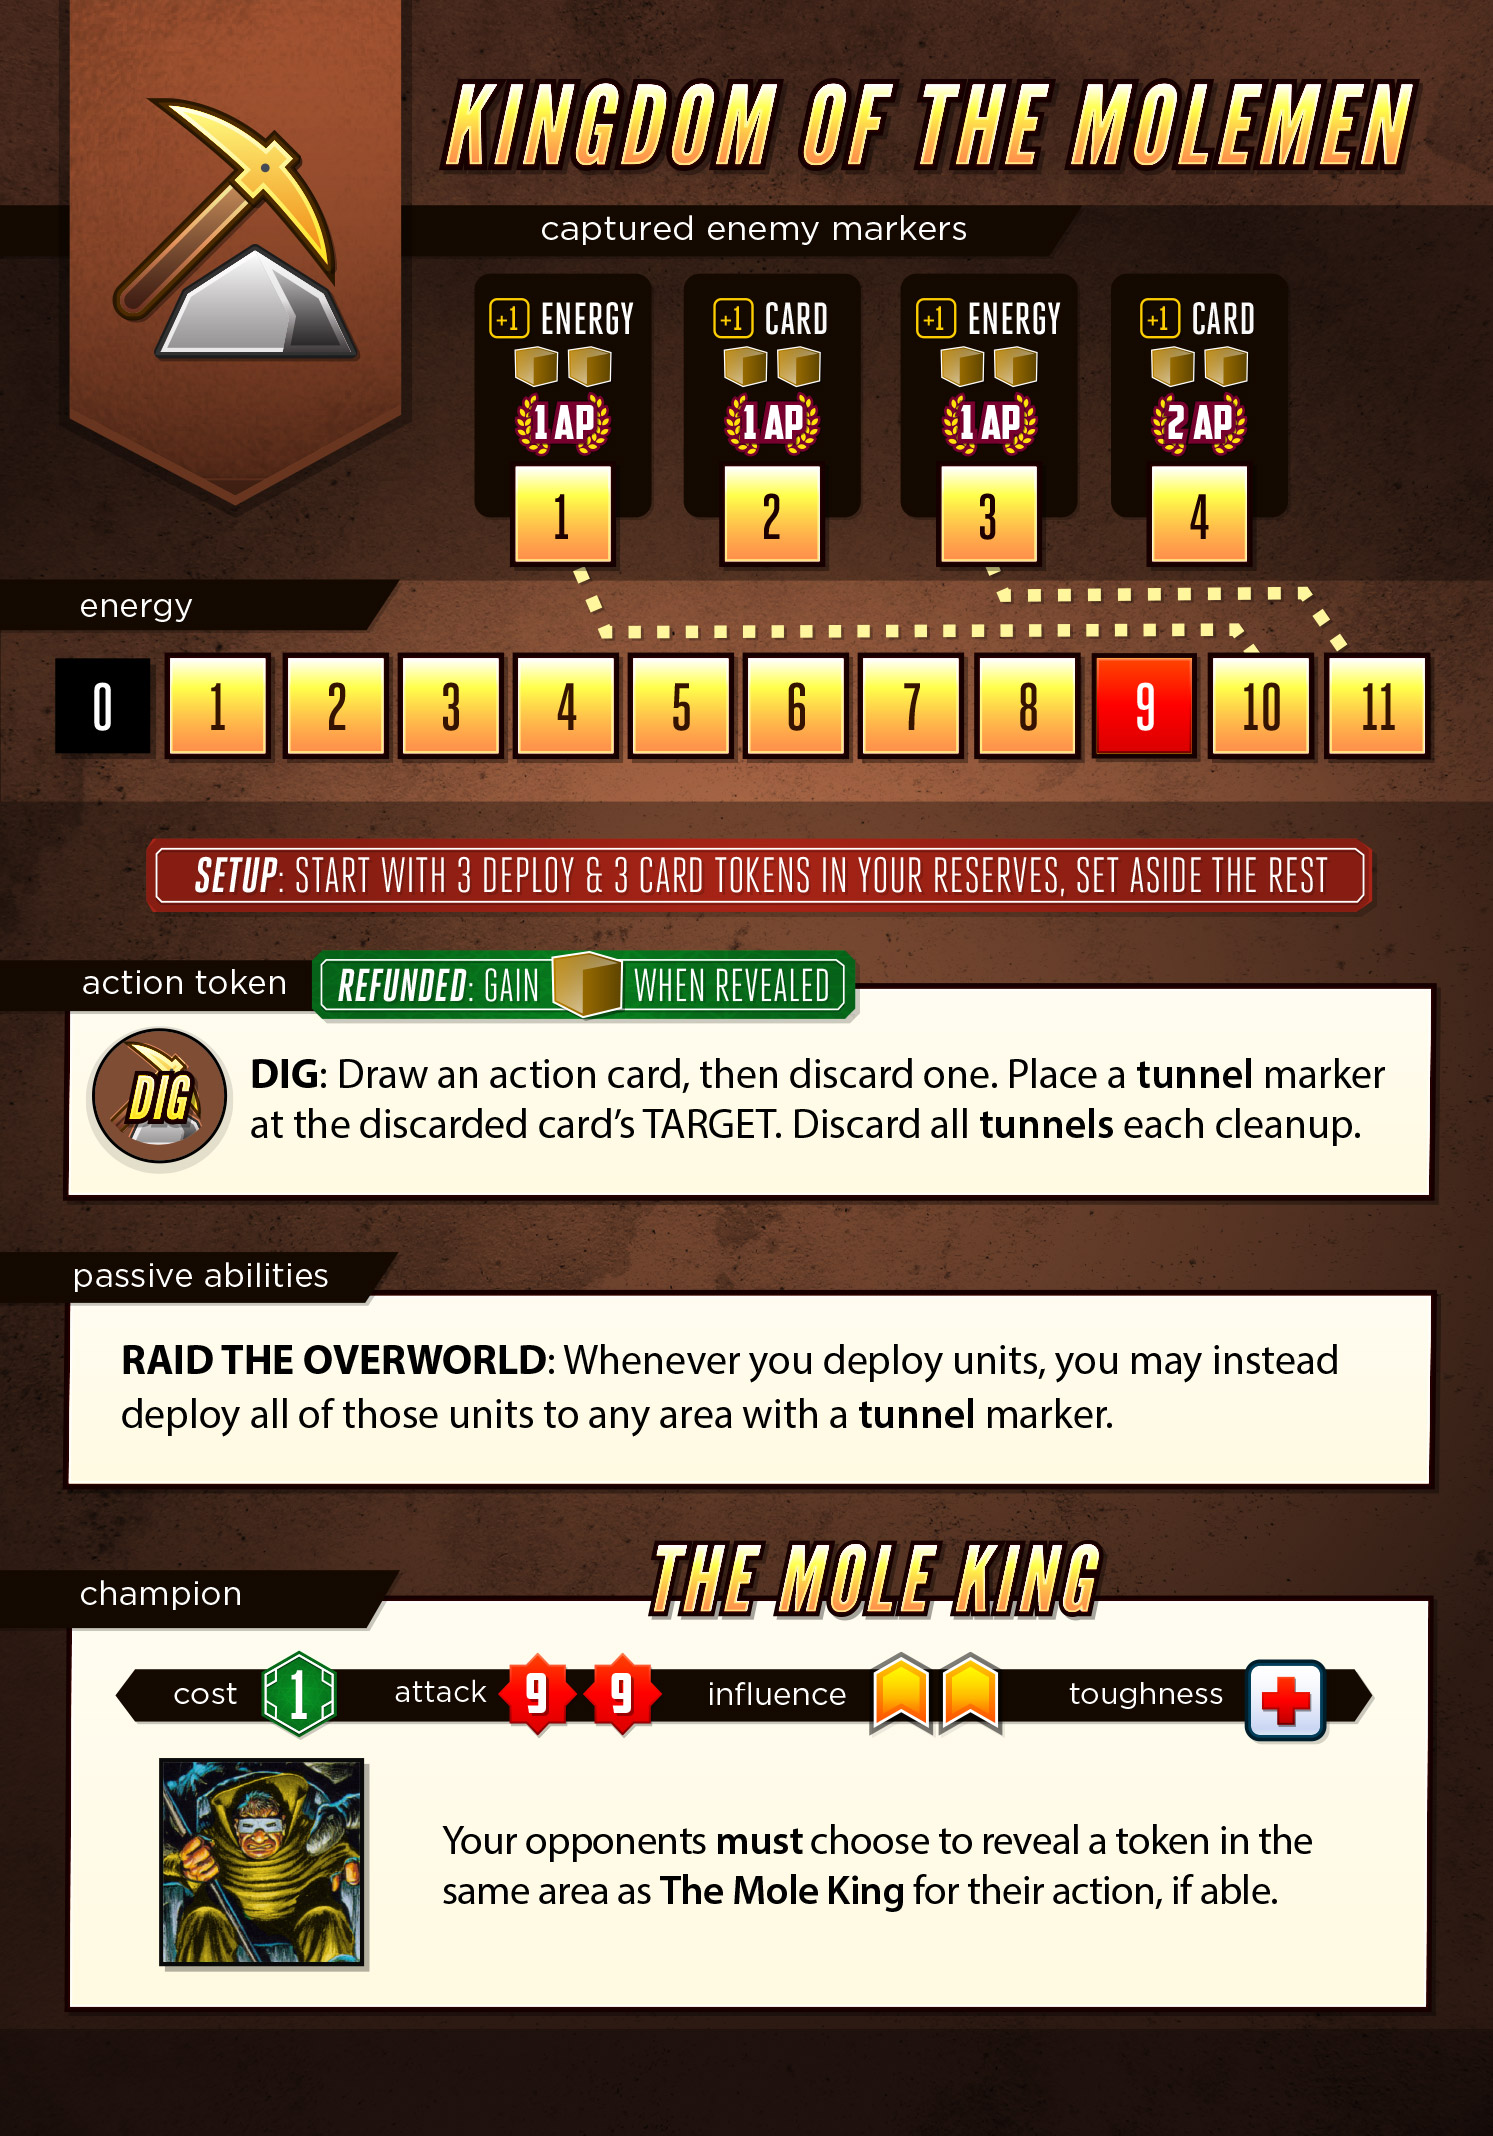
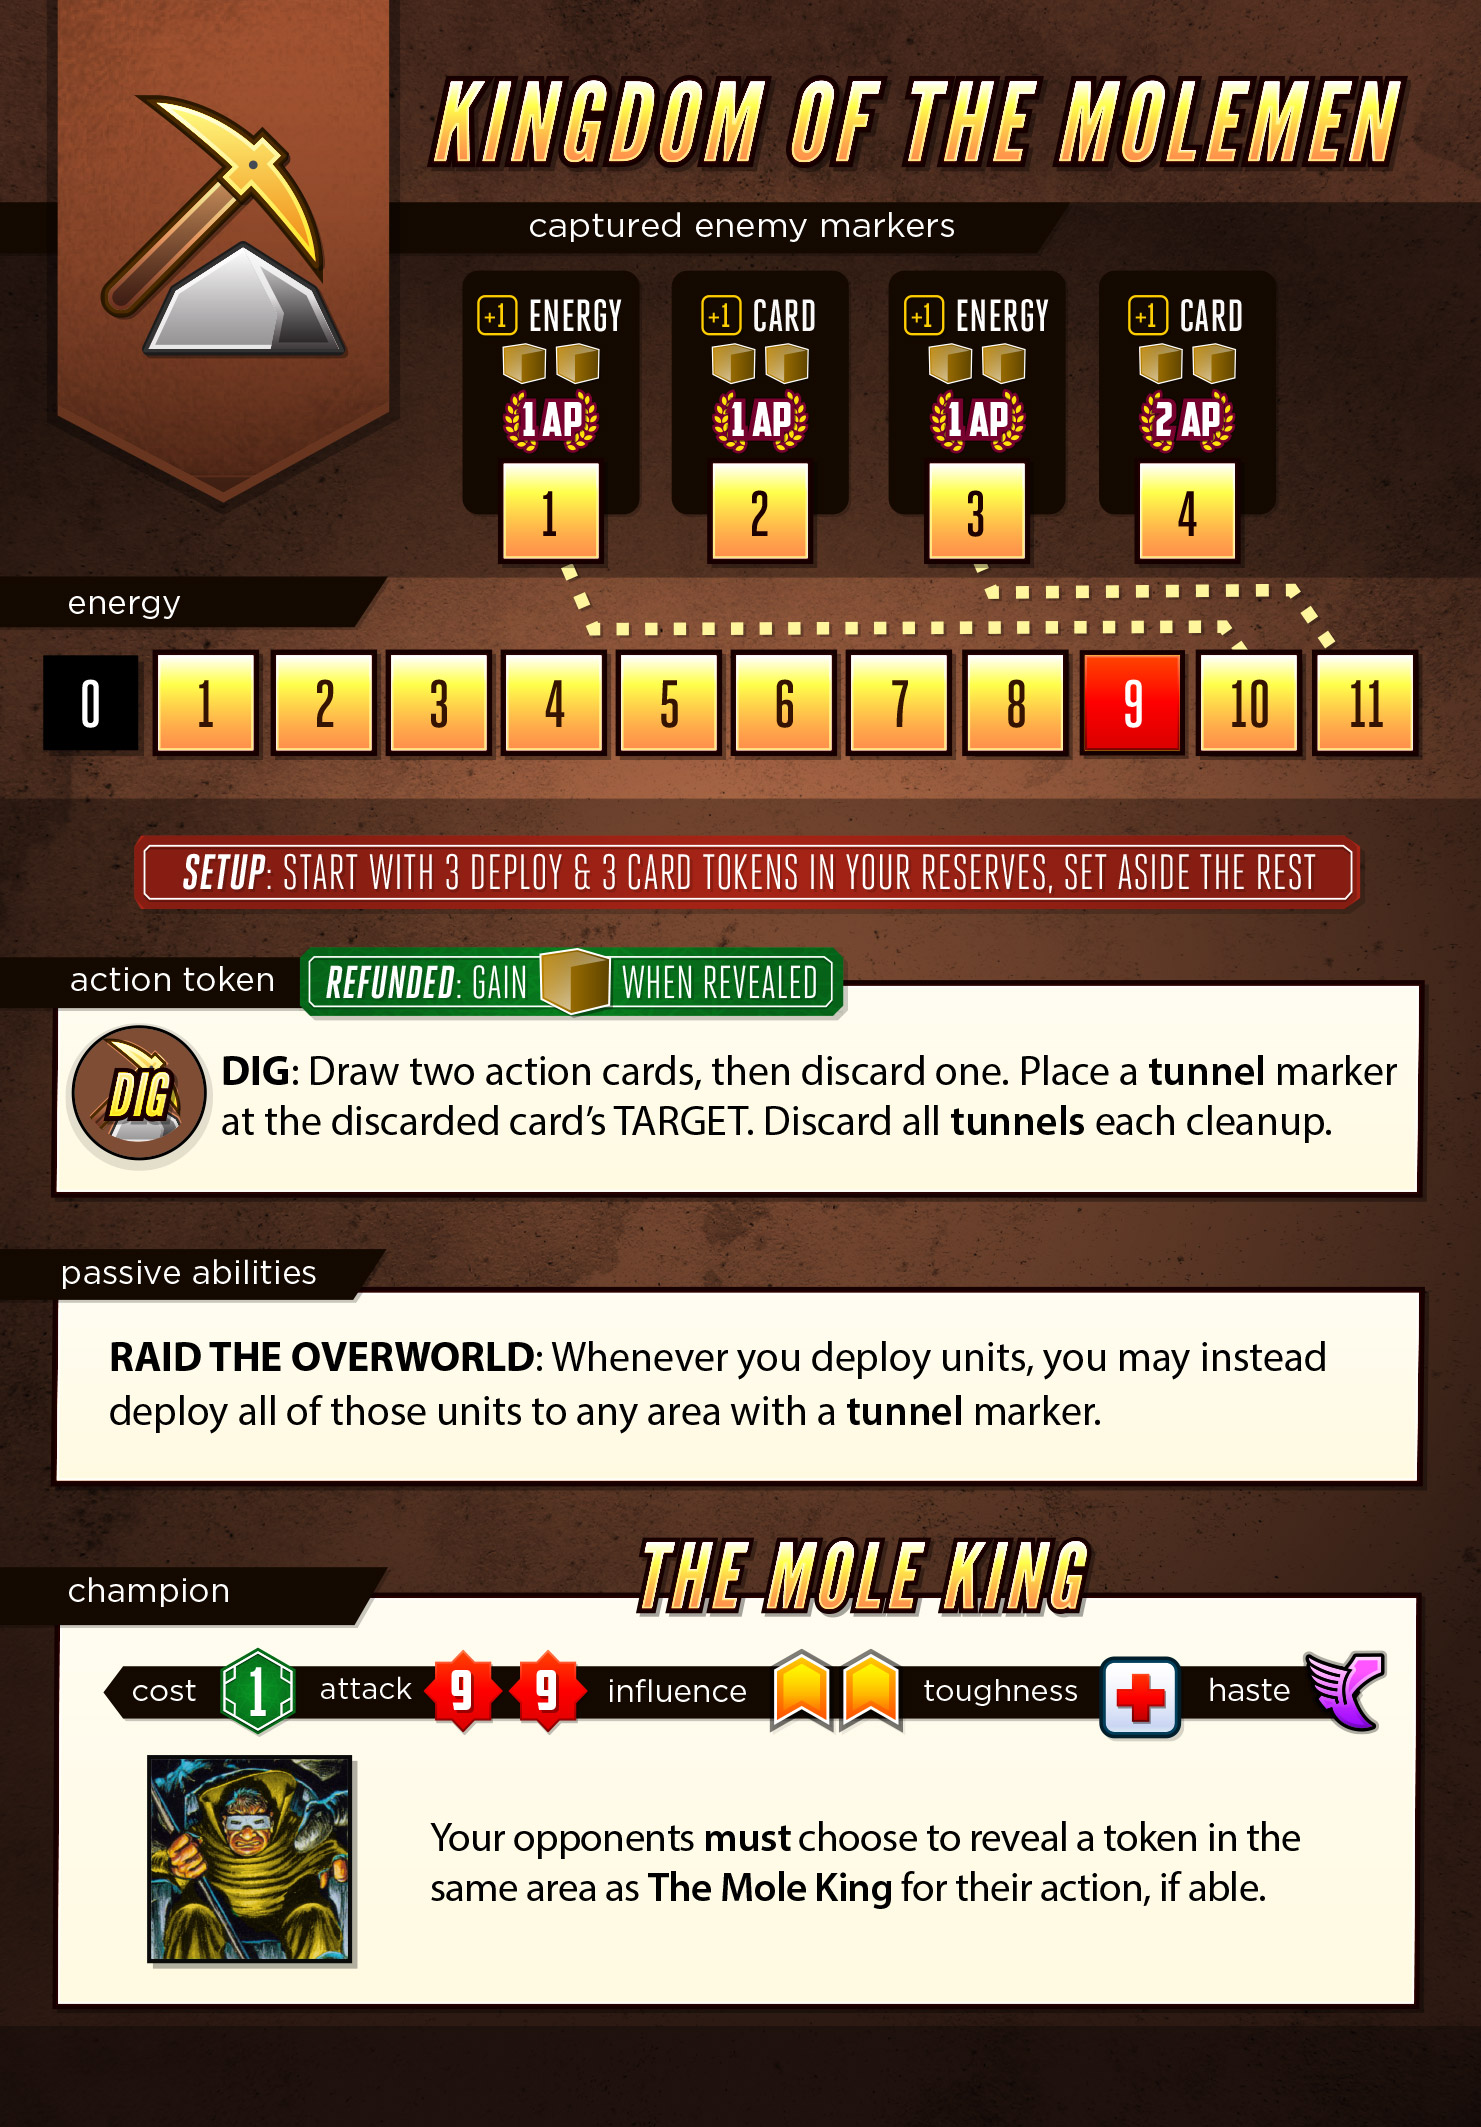
MOLEMEN: buff token and boss

diff --git a/server/classes/factions/Molemen.js b/server/classes/factions/Molemen.js
@@ -30,6 +30,7 @@ class Molemen extends Faction {
         this.data.cardCache = [];
         this.data.flipableUnits = ['champion'];
         this.data.moleKing = null;
+        this.data.bonusDeploy = { type: 'champion', count : 1 }; // our champion doesn't use up deploy limit
 
         // we can capture more tokens than usual, neat!
         this.data.captured.max = this.capturedRewards.length;
@@ -42,7 +43,7 @@ class Molemen extends Faction {
                 type : 'dig',
                 cost : 0,
                 resource: 1,
-                description: "Draw an action card, then discard a card from your hand. Place a tunnel marker in the area matching that card’s TARGET.",
+                description: "Draw two action cards, then discard a card from your hand. Place a tunnel marker in the area matching that card’s TARGET.",
                 req : "This token may always be activated"
             }
         };
@@ -121,7 +122,7 @@ class Molemen extends Faction {
     async activateDigToken( args ){
 
         // draw card
-        this.drawCards(1, true );
+        this.drawCards(2, true );
 
         // discard card
         const response = await this.prompt('discard-card', {
